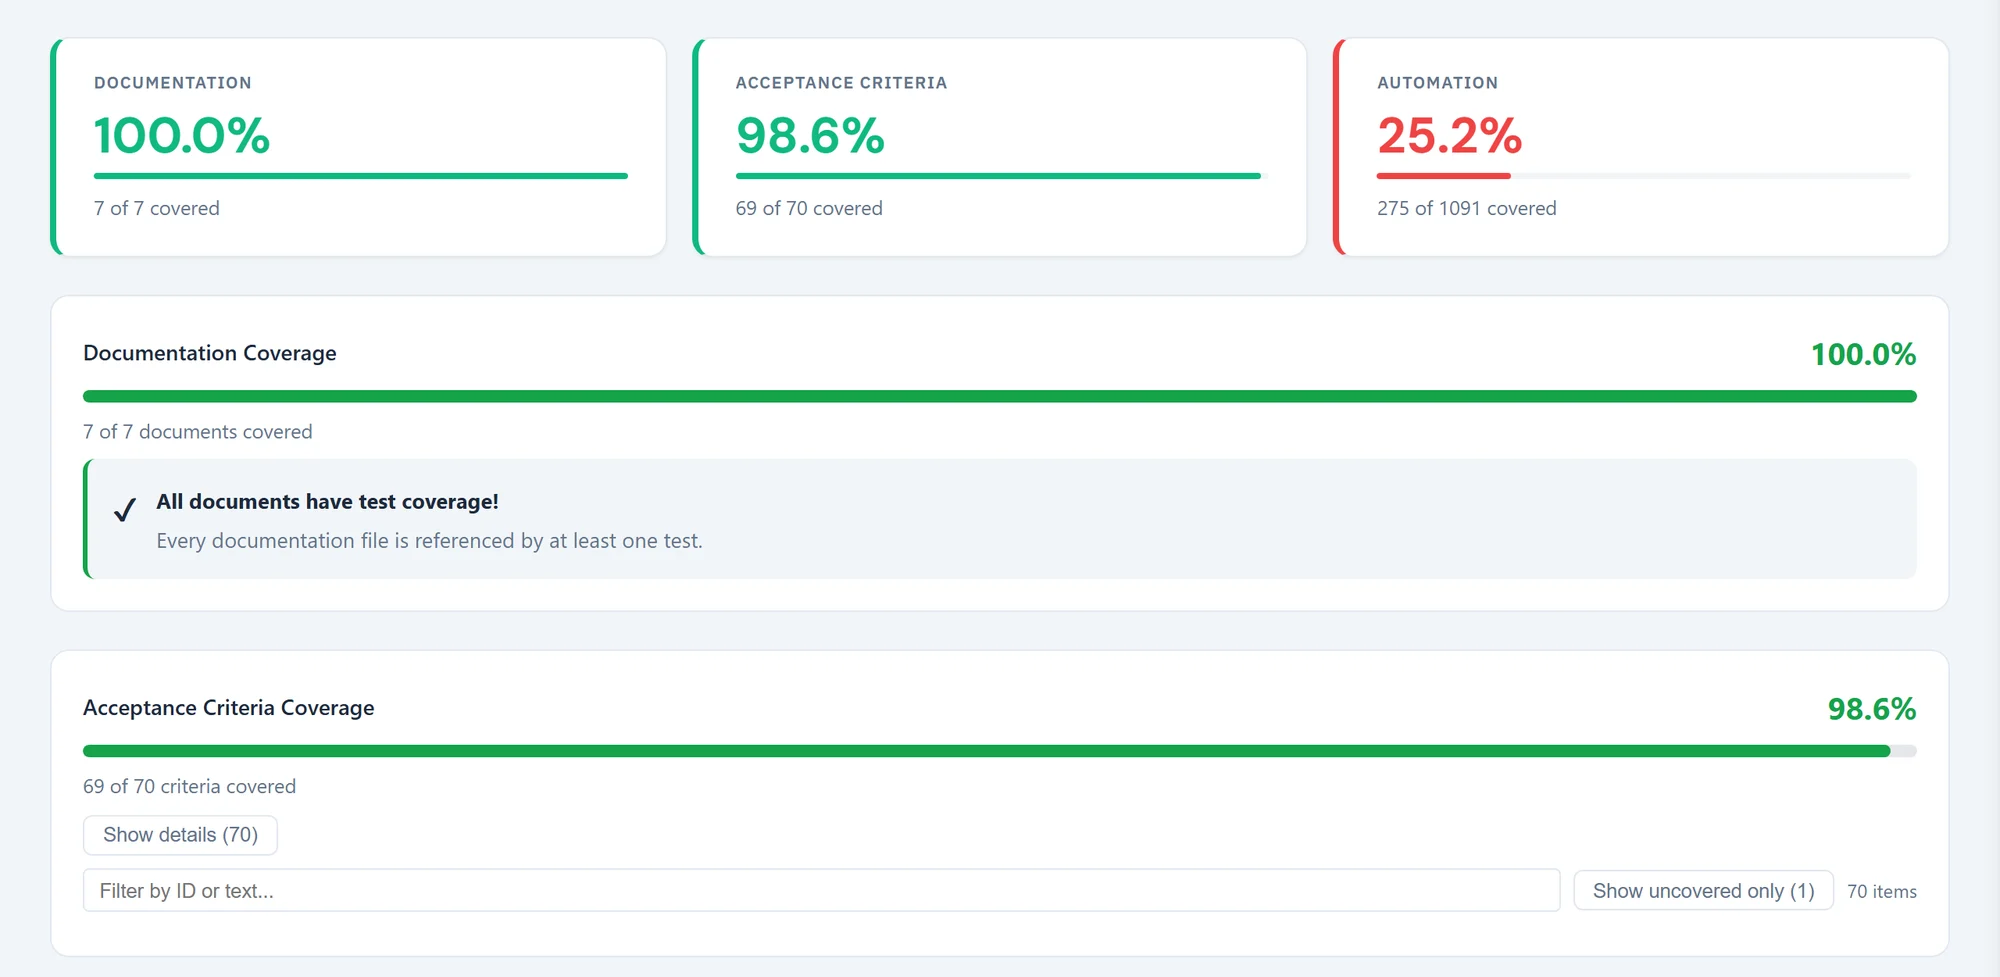
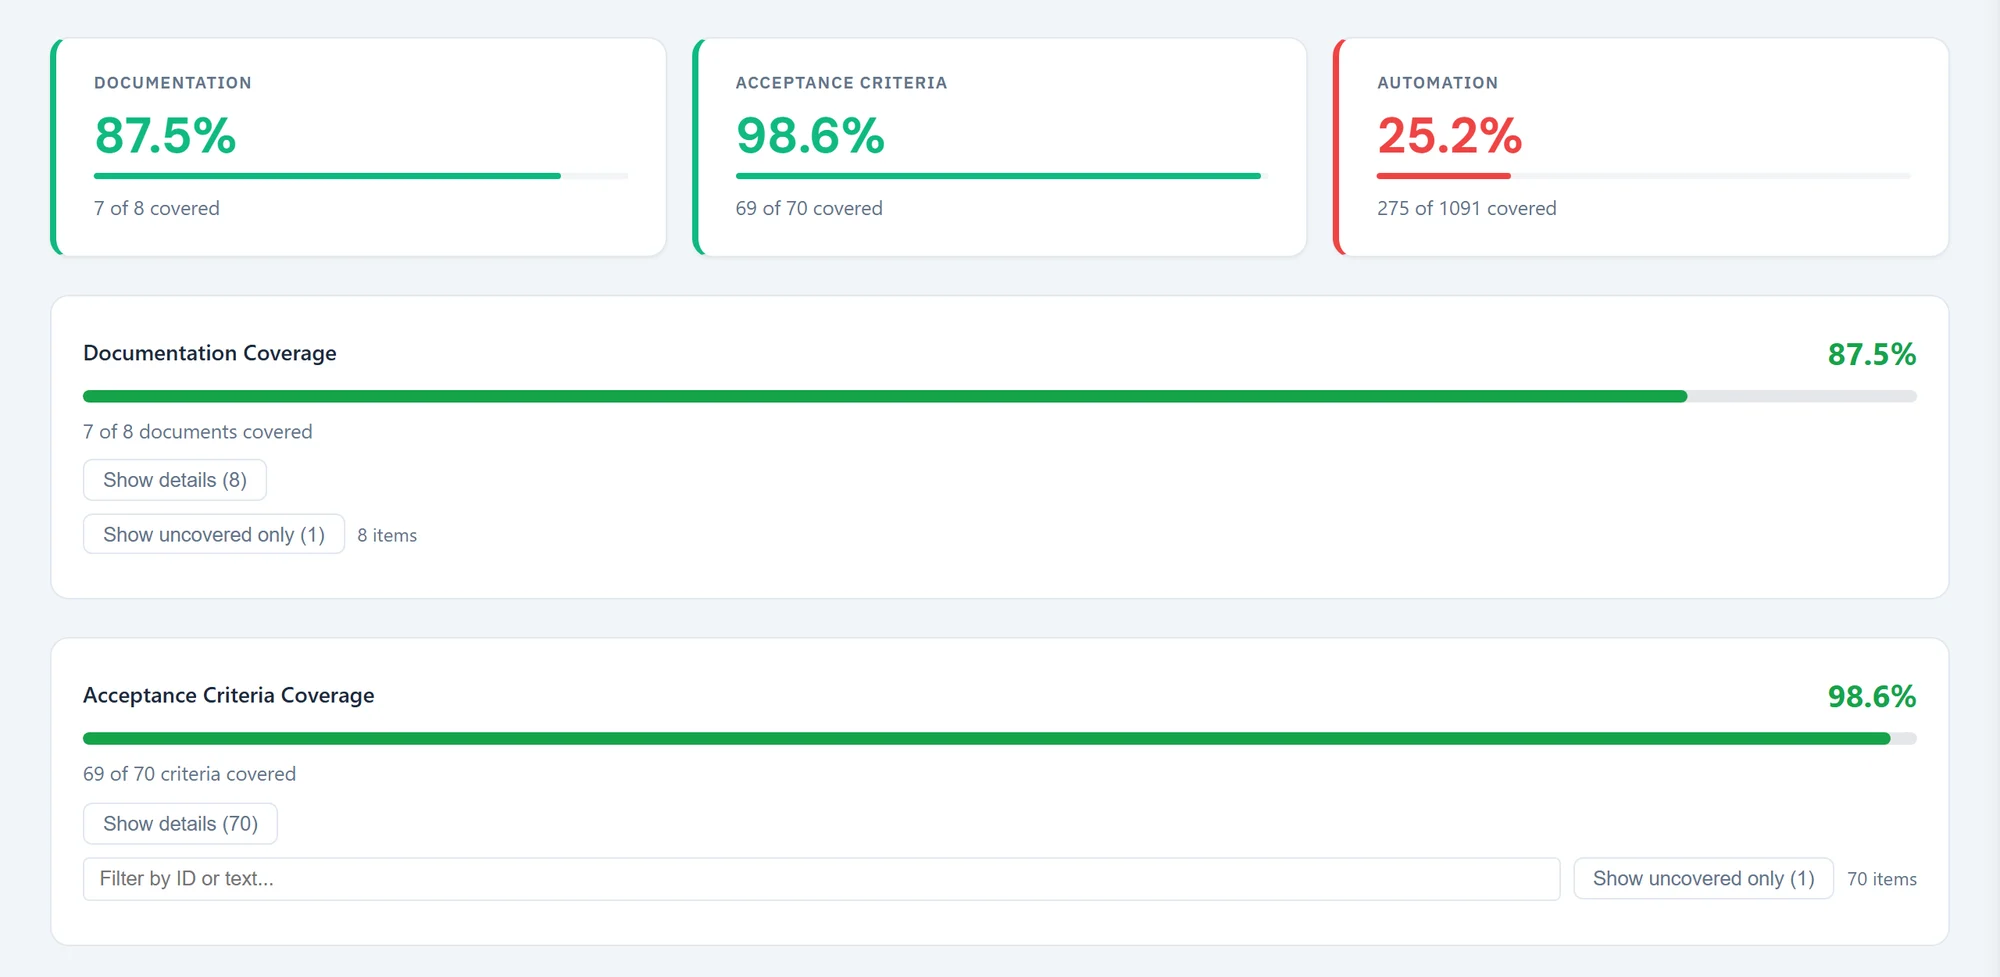
docs: describe SPECTRA 2.7.0 as it ships
Dashboard screenshots re-captured with the released v2.7.0 build (coverage now
shows 7 of 8 documents). Known-issue notes: documentation coverage counts the
docs index file; spectra run stores its database in .execution/.execution/;
update-skills ignores --dry-run. The fixes stay on fix/demo-upgrade-bugs.

diff --git a/docs/coverage.md b/docs/coverage.md
@@ -46,7 +46,7 @@ Click a test to see its priority, tags, preconditions, steps and expected result
 
 The **Coverage** tab shows the three numbers with drill-down lists:
 
-{% include screenshot.html file="dashboard-coverage" alt="Dashboard coverage tab: documentation 100 percent, acceptance criteria 98.6 percent, automation 25.2 percent" caption="The Calculator demo: every doc has tests, 69 of 70 extracted criteria have tests, and 275 of 1,091 test cases are automated." %}
+{% include screenshot.html file="dashboard-coverage" alt="Dashboard coverage tab: documentation 87.5 percent (7 of 8), acceptance criteria 98.6 percent, automation 25.2 percent" caption="The Calculator demo on SPECTRA 2.7.0: 7 of 8 documents (see the known issue below), 69 of 70 extracted criteria and 275 of 1,091 automated test cases." %}
 
 The **Run History** tab lists past test runs ([Run tests with your agent](execution-agents)).
 
@@ -63,6 +63,10 @@ as release notes can be left out of the documentation number: see
 
 > The dashboard's automation number and the number in the agent's coverage summary are counted differently and can
 > differ. This is a known issue.
+
+> **Known issue (2.7.0):** documentation coverage also counts SPECTRA's own index file
+> (`docs/_index/groups/*.index.md`) as a document, so a fully covered repository shows one uncovered document, as in
+> the screenshot above.
 
 <details markdown="1">
 <summary>Under the hood</summary>

diff --git a/docs/execution-agents.md b/docs/execution-agents.md
@@ -46,10 +46,15 @@ You can close the browser at any time: the run is saved, and refreshing or reope
 
 | What | Where |
 |---|---|
-| Run state and history | `.execution/spectra.db` (keep it out of git) |
+| Run state | `.execution/.execution/spectra.db` in 2.7.0 (see the note below; keep it out of git) |
 | Reports | `.execution/reports/` (JSON, Markdown and HTML per run) |
 
-The dashboard's **Run History** tab lists past runs and opens each report:
+> **Known issue (2.7.0):** `spectra run` stores its database one folder too deep, in `.execution/.execution/`. The
+> dashboard reads `.execution/spectra.db` and the reports in `.execution/reports/`, so a run from 2.7.0 shows up there
+> once it's finalized and has a report. The usual `.gitignore` rule `.execution/*.db` doesn't cover the nested file;
+> add `.execution/.execution/` to `.gitignore`.
+
+The dashboard's **Run History** tab lists the runs it finds and opens each report:
 
 {% include screenshot.html file="dashboard-runs" alt="Dashboard Run History tab: pass-rate trend, pass rate per suite and a table of three runs with their passed, failed, skipped and blocked counts" %}
 

diff --git a/docs/architecture/overview.md b/docs/architecture/overview.md
@@ -69,7 +69,7 @@ Commit the files that record results; the rest is scratch that `spectra init` (n
 | `.spectra/verdicts/`, `.spectra/dropped-tests.json` | no (scratch) |
 | `.spectra/generation-plan/` | no (scratch) |
 | `.spectra/baseline.lock`, `.spectra/criteria.lock` | no (scratch) |
-| `.execution/spectra.db` (run state) | no |
+| `.execution/spectra.db` (run state; in 2.7.0 `.execution/.execution/spectra.db`, a known issue) | no |
 
 Keep the `# spectra-offered: …` lines in `.gitignore` when you commit it: they record which patterns SPECTRA already
 offered, so one your team removed stays removed in every clone.

diff --git a/docs/cli-reference.md b/docs/cli-reference.md
@@ -204,6 +204,9 @@ session, under whichever account is already signed in there. See
 
 Update bundled SKILL and agent files to the latest version.
 
+> **Known issue (2.7.0):** the global `--dry-run` option is ignored by this command: it writes the files anyway.
+> Commit or stash your changes before you run it, so `git diff` shows what changed.
+
 ```bash
 spectra update-skills
 ```
